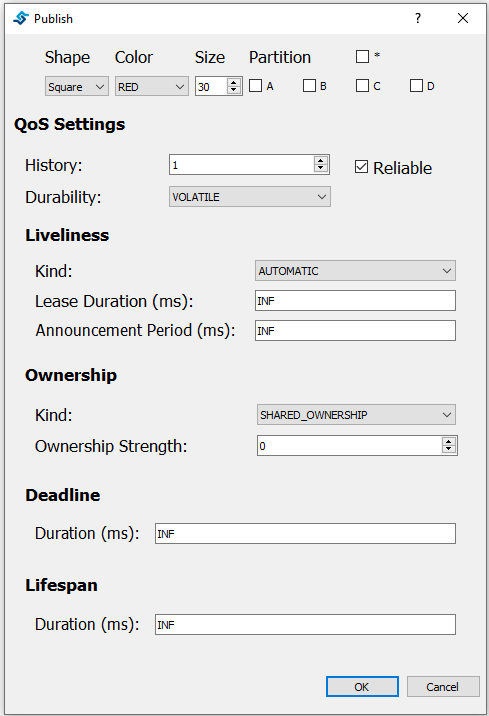
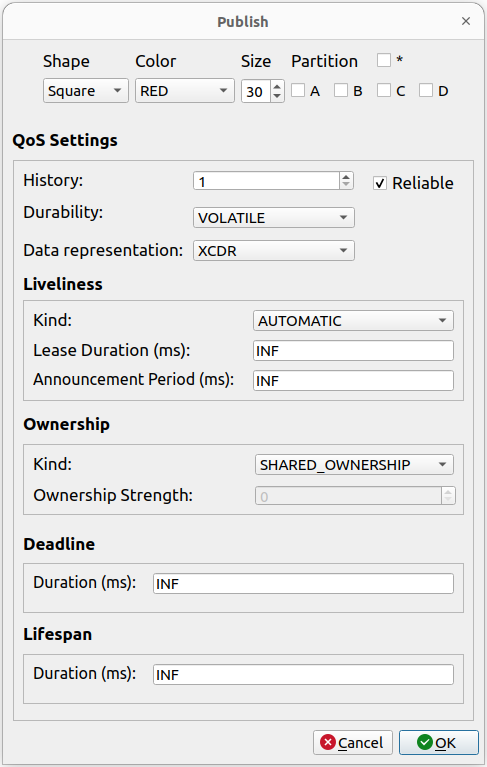
Refs 20106: Support configuring data representation version

diff --git a/docs/first_steps/first_steps.rst b/docs/first_steps/first_steps.rst
@@ -52,6 +52,11 @@ There are multiple parameters that the user can define in this menu:
   The latter will send that last stored values to subscribers joining after the publisher has been created. (see
   `Fast DDS DurabilityQosPolicy Documentation <https://fast-dds.docs.eprosima.com/en/latest/fastdds/dds_layer/core/policy/standardQosPolicies.html#durabilityqospolicy>`_).
 
+- **Data representation:** The Data representation version is set to version 1,
+  ``XCDR``, but the user can select the representation version 2, ``XCDR2``.
+  (see
+  `Fast DDS Data representation Documentation <https://fast-dds.docs.eprosima.com/en/latest/fastdds/api_reference/dds_pim/core/policy/datarepresentationid.html>`_).
+
 - **Liveliness:** The user can select the Liveliness QoS of the publisher from three different values:
   ``AUTOMATIC``, ``MANUAL_BY_PARTICIPANT`` and ``MANUAL_BY_TOPIC``. The Lease Duration value and Announcement Period
   can also be configured. The latter only applies if Liveliness is set to ``AUTOMATIC`` or ``MANUAL_BY_PARTICIPANT``
@@ -109,6 +114,10 @@ has additional elements:
   .. note::
 
     Using Lifespan QoS will not have any visual effect.
+
+  .. note::
+
+    The data reader of a subscriber can receive data sent using both representation versions, **XCDR** and **XCDR2**.
 
 Participant configuration
 -------------------------
